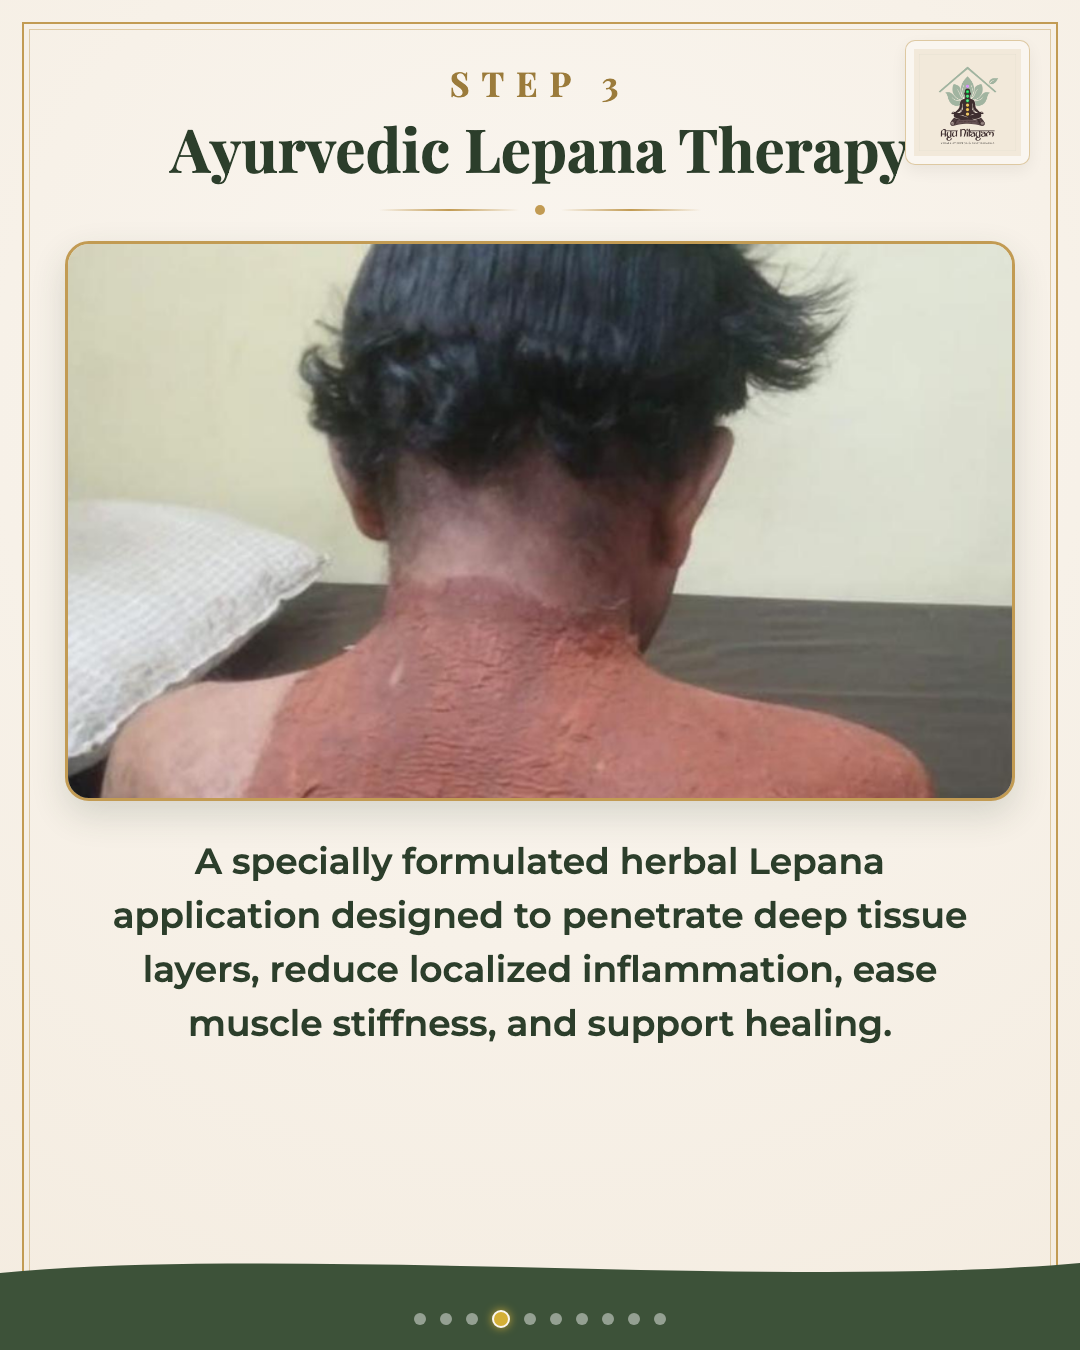
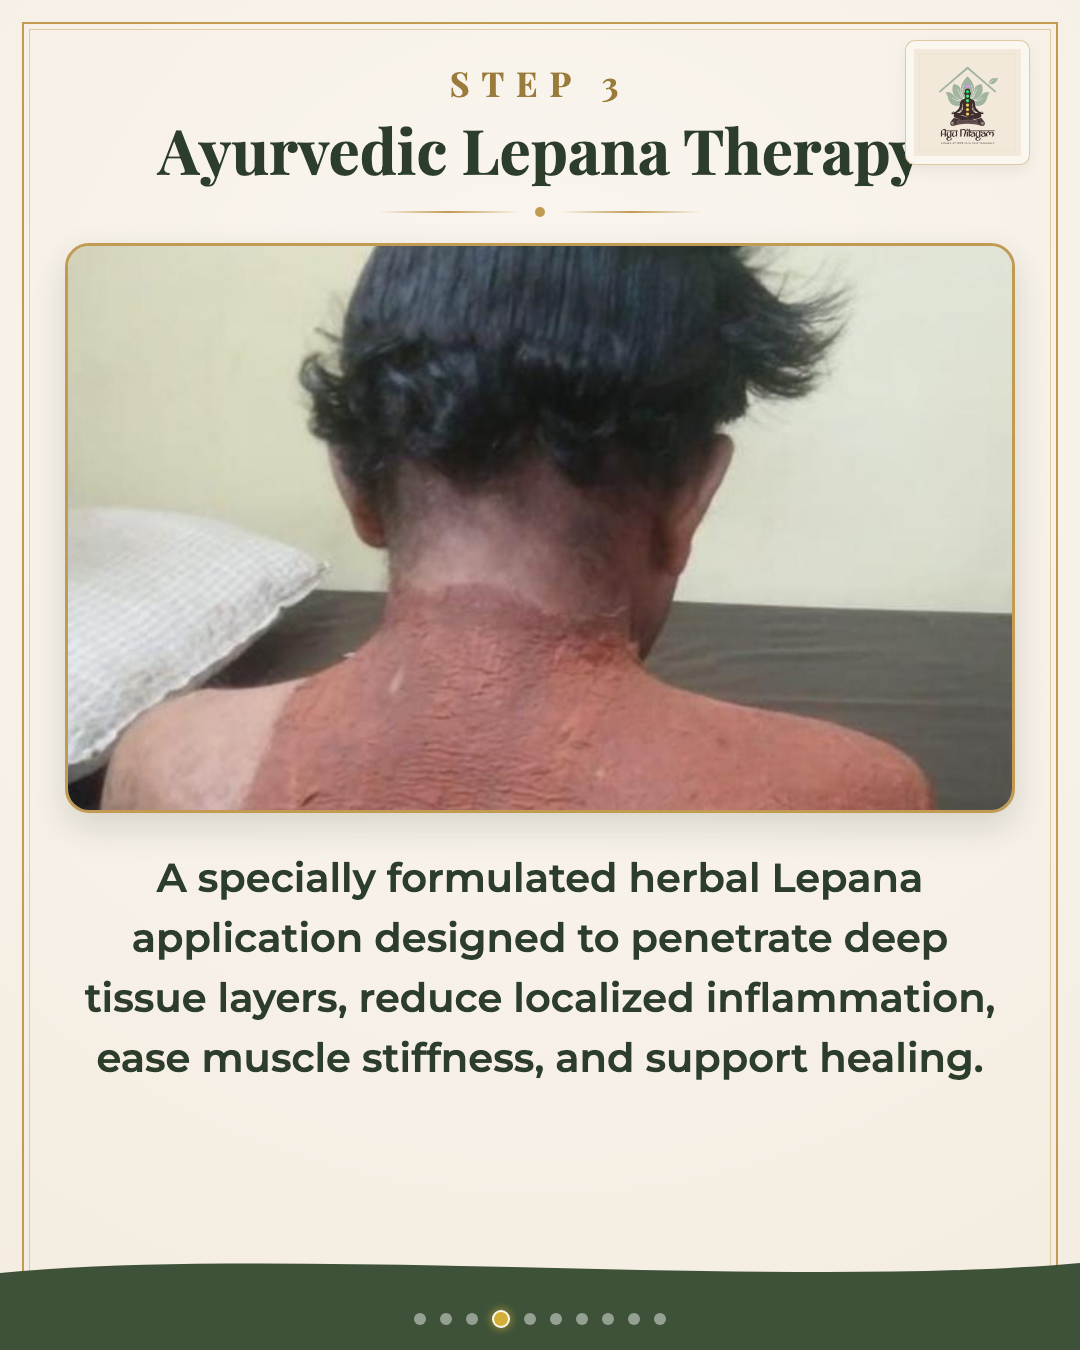
Further increase description and bullet point typography sizes across carousel slides

diff --git a/html/slides.html b/html/slides.html
@@ -94,7 +94,7 @@
 
   .slide-title {
     font-family: 'Playfair Display', serif;
-    font-size: 60px;
+    font-size: 62px;
     font-weight: 700;
     color: #2C3E2B;
     text-align: center;
@@ -124,7 +124,7 @@
 
   .slide-subtitle {
     font-family: 'Montserrat', sans-serif;
-    font-size: 30px;
+    font-size: 32px;
     color: #4A5548;
     text-align: center;
     line-height: 1.4;
@@ -179,7 +179,7 @@
     border-radius: 24px;
     overflow: hidden;
     box-shadow: 0 14px 35px rgba(44, 62, 43, 0.16);
-    margin: 10px 0 18px 0;
+    margin: 10px 0 20px 0;
     background-color: #EFE8DC;
     display: flex;
     justify-content: center;
@@ -191,7 +191,7 @@
     height: 520px;
   }
   .photo-frame.photo-height-xl {
-    height: 560px;
+    height: 570px;
   }
 
   .photo-frame img {
@@ -201,33 +201,33 @@
     display: block;
   }
 
-  /* Content Cards & List Items */
+  /* Content Cards & List Items (LARGER FONT SIZE 36px) */
   .bullet-list {
     display: flex;
     flex-direction: column;
-    gap: 14px;
+    gap: 16px;
     width: 100%;
-    max-width: 900px;
+    max-width: 920px;
     margin-top: 5px;
   }
 
   .bullet-item {
     display: flex;
     align-items: center;
-    gap: 18px;
-    font-size: 33px;
+    gap: 20px;
+    font-size: 36px; /* LARGER 36px POINT FONT */
     color: #2C3E2B;
     font-weight: 600;
-    background: rgba(255, 255, 255, 0.75);
-    padding: 16px 28px;
-    border-radius: 14px;
+    background: rgba(255, 255, 255, 0.8);
+    padding: 18px 30px;
+    border-radius: 16px;
     border: 1.5px solid rgba(194, 155, 83, 0.4);
     box-shadow: 0 4px 14px rgba(0,0,0,0.04);
   }
 
   .bullet-icon {
-    width: 30px;
-    height: 30px;
+    width: 32px;
+    height: 32px;
     border-radius: 6px;
     border: 2.5px solid #9B7B3B;
     display: flex;
@@ -237,8 +237,8 @@
   }
   .bullet-icon::after {
     content: '';
-    width: 11px;
-    height: 11px;
+    width: 12px;
+    height: 12px;
     background-color: #9B7B3B;
     border-radius: 2px;
   }
@@ -247,18 +247,18 @@
     display: flex;
     flex-wrap: wrap;
     justify-content: center;
-    gap: 16px;
-    max-width: 920px;
+    gap: 18px;
+    max-width: 940px;
     margin: 15px 0;
   }
 
   .pill-item {
-    font-size: 32px;
+    font-size: 35px; /* LARGER 35px PILL FONT */
     font-weight: 700;
     color: #2C3E2B;
-    background: rgba(255, 255, 255, 0.8);
+    background: rgba(255, 255, 255, 0.85);
     border: 2px solid #C29B53;
-    padding: 15px 34px;
+    padding: 16px 36px;
     border-radius: 40px;
     box-shadow: 0 4px 14px rgba(0,0,0,0.05);
     display: flex;
@@ -268,18 +268,18 @@
   .pill-item::before {
     content: '✦';
     color: #9B7B3B;
-    font-size: 22px;
+    font-size: 24px;
   }
 
   .focused-description {
     font-family: 'Montserrat', sans-serif;
-    font-size: 36px;
+    font-size: 40px; /* LARGER 40px DESCRIPTION FONT */
     line-height: 1.5;
     color: #2C3E2B;
     text-align: center;
-    max-width: 940px;
+    max-width: 950px;
     font-weight: 600;
-    padding: 0 20px;
+    padding: 0 10px;
   }
 
   /* Philosophy Diagram Boxes */
@@ -288,7 +288,7 @@
     flex-direction: column;
     gap: 16px;
     width: 100%;
-    max-width: 820px;
+    max-width: 840px;
     margin: 25px 0 20px 0;
   }
 
@@ -299,7 +299,7 @@
     padding: 20px 36px;
     text-align: center;
     font-family: 'Playfair Display', serif;
-    font-size: 36px;
+    font-size: 38px;
     font-weight: 700;
     color: #2C3E2B;
     box-shadow: 0 6px 18px rgba(61, 82, 57, 0.07);
@@ -318,7 +318,7 @@
     background: #3D5239;
     color: #FFFFFF;
     font-family: 'Montserrat', sans-serif;
-    font-size: 34px;
+    font-size: 36px;
     font-weight: 700;
     padding: 24px 60px;
     border-radius: 60px;
@@ -332,7 +332,7 @@
   }
 
   .cta-contact {
-    font-size: 30px;
+    font-size: 32px;
     color: #2C3E2B;
     font-weight: 600;
     text-align: center;
@@ -411,7 +411,7 @@
   </symbol>
 </svg>
 
-<!-- SLIDE 1: COVER (LOWER GREEN WAVE + REMOVED BOTTOM LOGO) -->
+<!-- SLIDE 1: COVER (DESCRIPTION FONT INCREASED TO 42px & 2ND HEADING TO 48px) -->
 <div class="slide" id="slide-1">
   <div class="slide-frame"></div>
   <svg class="sun-motif"><use href="#sun-shape"/></svg>
@@ -431,11 +431,11 @@
       <div class="line"></div>
     </div>
 
-    <div class="slide-subtitle" style="font-weight: 700; color: #2C3E2B; font-size: 46px; line-height: 1.25; margin-bottom: 35px; max-width: 950px;">
+    <div class="slide-subtitle" style="font-weight: 700; color: #2C3E2B; font-size: 48px; line-height: 1.25; margin-bottom: 35px; max-width: 950px;">
       A Traditional Ayurvedic Spine Restoration Program
     </div>
 
-    <div class="focused-description" style="font-size: 38px; font-weight: 600; line-height: 1.5; max-width: 940px;">
+    <div class="focused-description" style="font-size: 42px; font-weight: 600; line-height: 1.48; max-width: 960px;">
       A structured, personalized approach to help improve spinal health, mobility, and overall function through classical Ayurvedic principles and rehabilitation.
     </div>
   </div>
@@ -455,7 +455,7 @@
 </div>
 
 
-<!-- SLIDE 2: STEP 1 - DETAILED ASSESSMENT -->
+<!-- SLIDE 2: STEP 1 - DETAILED ASSESSMENT (BULLET TEXT 36px) -->
 <div class="slide" id="slide-2">
   <div class="slide-frame"></div>
   <div class="top-right-logo"><img src="../logo.jpeg" alt="Logo"></div>
@@ -470,9 +470,9 @@
       <div class="line"></div>
     </div>
 
-    <div class="slide-subtitle">Every treatment begins with understanding your unique condition.</div>
+    <div class="slide-subtitle" style="font-size: 34px;">Every treatment begins with understanding your unique condition.</div>
 
-    <div class="photo-frame" style="height: 500px;">
+    <div class="photo-frame" style="height: 480px;">
       <img src="../extracted_photos/clean_photo_02.png" alt="Assessment Photo">
     </div>
 
@@ -498,7 +498,7 @@
 </div>
 
 
-<!-- SLIDE 3: STEP 2 - PERSONALIZED CORRECTION -->
+<!-- SLIDE 3: STEP 2 - PERSONALIZED CORRECTION (DESCRIPTION FONT 40px) -->
 <div class="slide" id="slide-3">
   <div class="slide-frame"></div>
   <div class="top-right-logo"><img src="../logo.jpeg" alt="Logo"></div>
@@ -517,7 +517,7 @@
       <img src="../extracted_photos/clean_photo_03.png" alt="Spinal Correction Photo">
     </div>
 
-    <div class="focused-description" style="margin-top: 15px; font-size: 36px;">
+    <div class="focused-description" style="margin-top: 15px; font-size: 40px;">
       Gentle corrective techniques are performed based on your clinical evaluation to restore natural spinal alignment, improve mobility, and relieve nerve pressure.
     </div>
   </div>
@@ -537,7 +537,7 @@
 </div>
 
 
-<!-- SLIDE 4: STEP 3 - AYURVEDIC LEPANA THERAPY -->
+<!-- SLIDE 4: STEP 3 - AYURVEDIC LEPANA THERAPY (DESCRIPTION FONT 40px) -->
 <div class="slide" id="slide-4">
   <div class="slide-frame"></div>
   <div class="top-right-logo"><img src="../logo.jpeg" alt="Logo"></div>
@@ -556,7 +556,7 @@
       <img src="../extracted_photos/clean_photo_04.png" alt="Lepana Therapy Photo">
     </div>
 
-    <div class="focused-description" style="margin-top: 15px; font-size: 36px;">
+    <div class="focused-description" style="margin-top: 15px; font-size: 40px;">
       A specially formulated herbal Lepana application designed to penetrate deep tissue layers, reduce localized inflammation, ease muscle stiffness, and support healing.
     </div>
   </div>
@@ -576,7 +576,7 @@
 </div>
 
 
-<!-- SLIDE 5: STEP 4 - PANCHAKARMA SUPPORT -->
+<!-- SLIDE 5: STEP 4 - PANCHAKARMA SUPPORT (PILL FONT 35px) -->
 <div class="slide" id="slide-5">
   <div class="slide-frame"></div>
   <div class="top-right-logo"><img src="../logo.jpeg" alt="Logo"></div>
@@ -591,7 +591,7 @@
       <div class="line"></div>
     </div>
 
-    <div class="slide-subtitle" style="margin-bottom: 12px;">Targeted therapies advised strictly according to clinical need:</div>
+    <div class="slide-subtitle" style="margin-bottom: 12px; font-size: 32px;">Targeted therapies advised strictly according to clinical need:</div>
 
     <div class="photo-frame photo-height-lg">
       <img src="../extracted_photos/clean_photo_05.png" alt="Panchakarma Photo">
@@ -621,7 +621,7 @@
 </div>
 
 
-<!-- SLIDE 6: STEP 5 - INTERNAL AYURVEDIC SUPPORT -->
+<!-- SLIDE 6: STEP 5 - INTERNAL AYURVEDIC SUPPORT (BULLET TEXT 36px) -->
 <div class="slide" id="slide-6">
   <div class="slide-frame"></div>
   <div class="top-right-logo"><img src="../logo.jpeg" alt="Logo"></div>
@@ -662,7 +662,7 @@
 </div>
 
 
-<!-- SLIDE 7: STEP 6 - REHABILITATION -->
+<!-- SLIDE 7: STEP 6 - REHABILITATION (BULLET TEXT 36px) -->
 <div class="slide" id="slide-7">
   <div class="slide-frame"></div>
   <div class="top-right-logo"><img src="../logo.jpeg" alt="Logo"></div>
@@ -677,7 +677,7 @@
       <div class="line"></div>
     </div>
 
-    <div class="slide-subtitle" style="margin-bottom: 12px;">Restoring natural movement and long-term strength:</div>
+    <div class="slide-subtitle" style="margin-bottom: 12px; font-size: 32px;">Restoring natural movement and long-term strength:</div>
 
     <div class="photo-frame photo-height-lg">
       <img src="../extracted_photos/clean_photo_07.png" alt="Rehabilitation Photo">
@@ -705,7 +705,7 @@
 </div>
 
 
-<!-- SLIDE 8: RECOVERY PRECAUTIONS -->
+<!-- SLIDE 8: RECOVERY PRECAUTIONS (BULLET TEXT 34px) -->
 <div class="slide" id="slide-8">
   <div class="slide-frame"></div>
   <div class="top-right-logo"><img src="../logo.jpeg" alt="Logo"></div>
@@ -720,17 +720,17 @@
       <div class="line"></div>
     </div>
 
-    <div class="slide-subtitle" style="margin-bottom: 10px;">Essential precautions for smooth, lasting healing:</div>
+    <div class="slide-subtitle" style="margin-bottom: 10px; font-size: 32px;">Essential precautions for smooth, lasting healing:</div>
 
-    <div class="photo-frame" style="height: 470px;">
+    <div class="photo-frame" style="height: 450px;">
       <img src="../extracted_photos/clean_photo_08.png" alt="Recovery Care Photo">
     </div>
 
-    <div class="bullet-list" style="gap: 12px;">
-      <div class="bullet-item" style="padding: 15px 26px; font-size: 31px;"><div class="bullet-icon"></div> Avoid heavy lifting & strenuous strain</div>
-      <div class="bullet-item" style="padding: 15px 26px; font-size: 31px;"><div class="bullet-icon"></div> Limit excessive forward bending or twisting</div>
-      <div class="bullet-item" style="padding: 15px 26px; font-size: 31px;"><div class="bullet-icon"></div> Reduce prolonged continuous sitting</div>
-      <div class="bullet-item" style="padding: 15px 26px; font-size: 31px;"><div class="bullet-icon"></div> Minimize long-distance travel during therapy</div>
+    <div class="bullet-list" style="gap: 14px;">
+      <div class="bullet-item" style="padding: 16px 28px; font-size: 34px;"><div class="bullet-icon"></div> Avoid heavy lifting & strenuous strain</div>
+      <div class="bullet-item" style="padding: 16px 28px; font-size: 34px;"><div class="bullet-icon"></div> Limit excessive forward bending or twisting</div>
+      <div class="bullet-item" style="padding: 16px 28px; font-size: 34px;"><div class="bullet-icon"></div> Reduce prolonged continuous sitting</div>
+      <div class="bullet-item" style="padding: 16px 28px; font-size: 34px;"><div class="bullet-icon"></div> Minimize long-distance travel during therapy</div>
     </div>
   </div>
 
@@ -778,7 +778,7 @@
       <div class="philosophy-card">6. Spinal Rehabilitation</div>
     </div>
 
-    <div class="focused-description" style="margin-top: 15px; font-size: 30px;">
+    <div class="focused-description" style="margin-top: 15px; font-size: 34px;">
       A comprehensive, patient-centered approach designed to support recovery at every stage.
     </div>
   </div>
@@ -798,7 +798,7 @@
 </div>
 
 
-<!-- SLIDE 10: CLOSING / CALL TO ACTION (LOWER GREEN WAVE + REMOVED BOTTOM LOGO) -->
+<!-- SLIDE 10: CLOSING / CALL TO ACTION -->
 <div class="slide" id="slide-10">
   <div class="slide-frame"></div>
   <svg class="sun-motif"><use href="#sun-shape"/></svg>
@@ -808,7 +808,7 @@
       <img src="../logo.jpeg" alt="Ayunilayam Logo">
     </div>
 
-    <h1 class="slide-title" style="font-size: 58px; max-width: 940px; line-height: 1.18;">
+    <h1 class="slide-title" style="font-size: 60px; max-width: 940px; line-height: 1.18;">
       Because Every Spine Deserves Individualized Care
     </h1>
     
@@ -818,11 +818,11 @@
       <div class="line"></div>
     </div>
 
-    <div class="focused-description" style="font-size: 32px; margin-bottom: 20px; max-width: 920px;">
+    <div class="focused-description" style="font-size: 36px; margin-bottom: 20px; max-width: 930px;">
       Every treatment plan at Ayunilayam is tailored to your unique clinical findings, response to therapy, and recovery goals.
     </div>
 
-    <div style="font-family: 'Playfair Display', serif; font-size: 44px; font-weight: 700; color: #2C3E2B; margin: 15px 0;">
+    <div style="font-family: 'Playfair Display', serif; font-size: 46px; font-weight: 700; color: #2C3E2B; margin: 15px 0;">
       Meru Sansthapana Chikitsa™
     </div>
 
